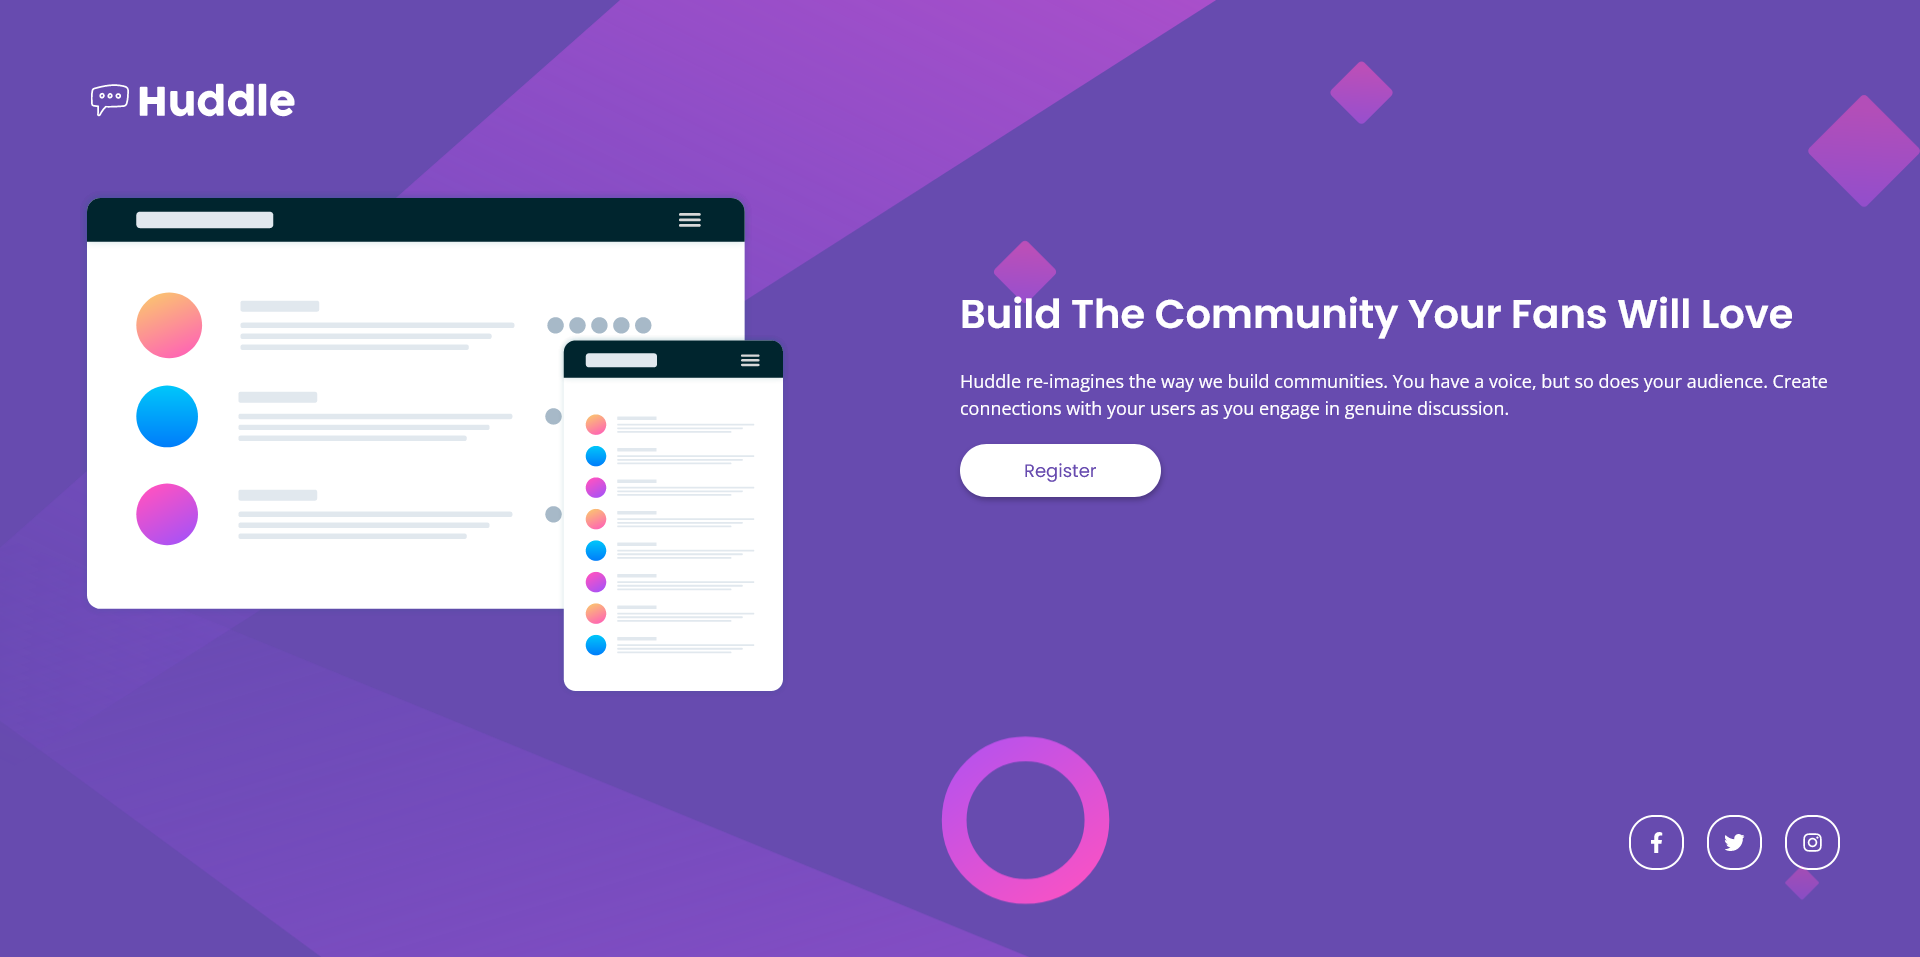
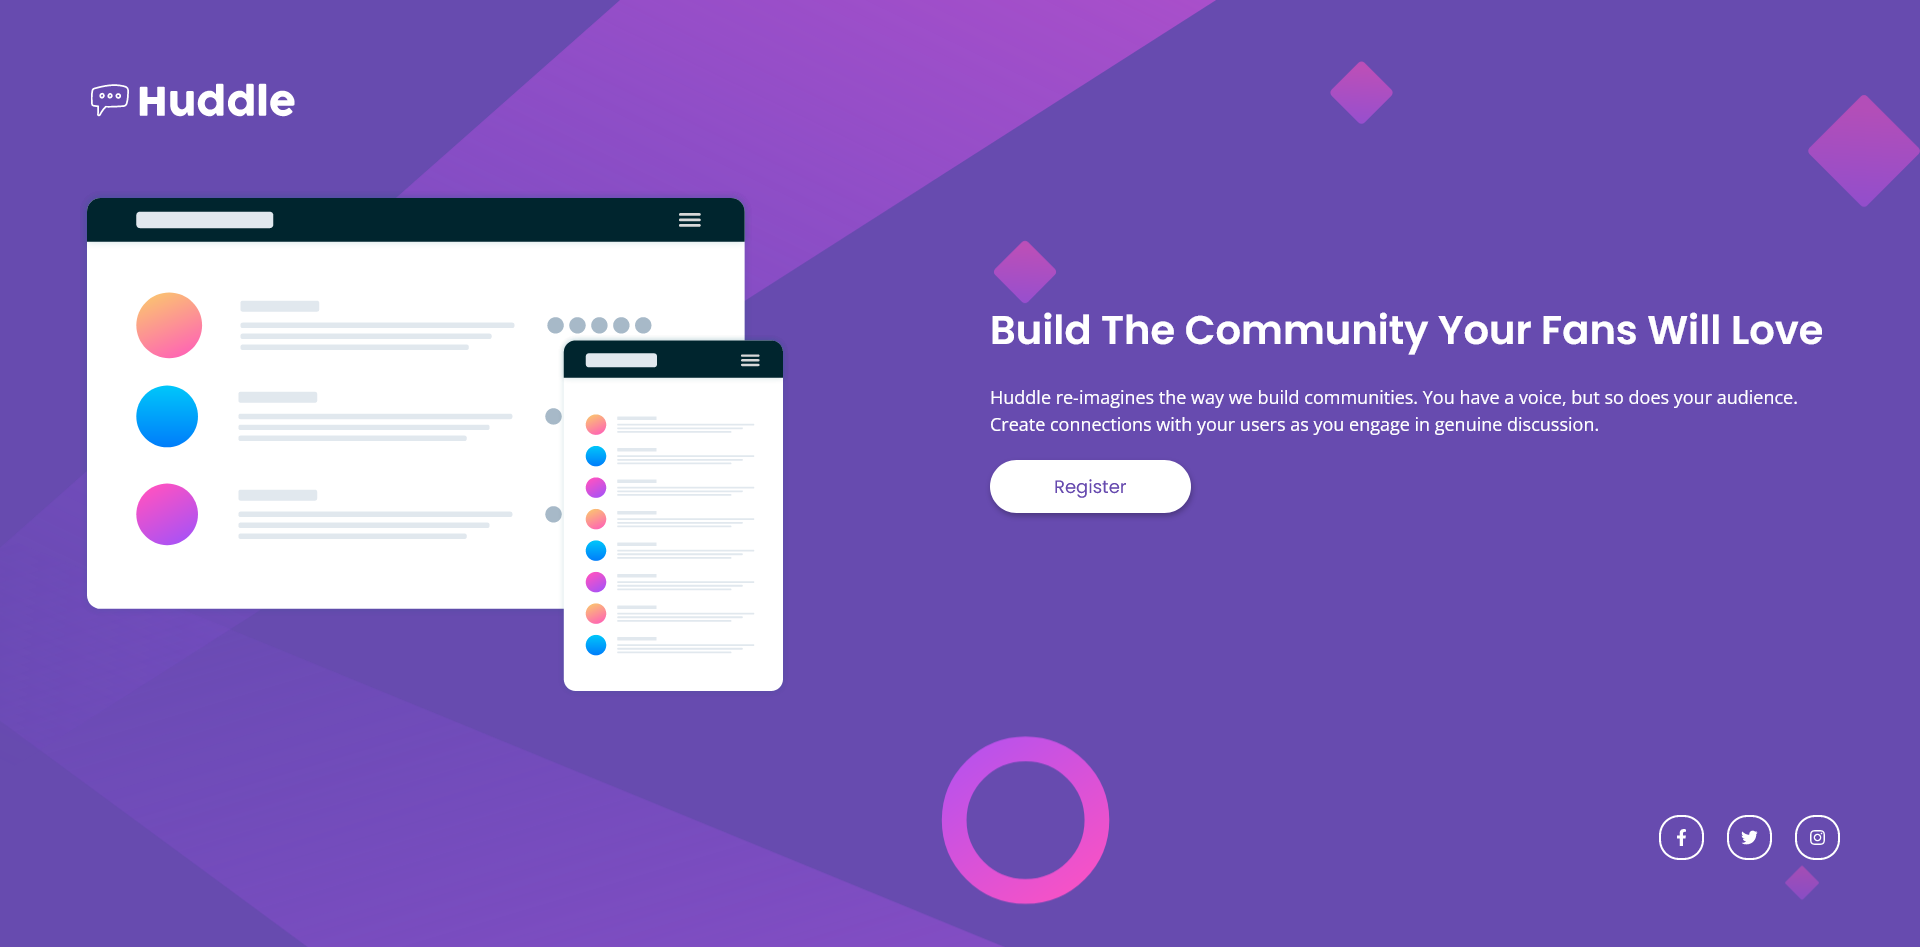
huddle-landing-page: column gap adjustment

diff --git a/frontend-mentor/huddle-landing-page-with-single-introductory-section/css/app.css b/frontend-mentor/huddle-landing-page-with-single-introductory-section/css/app.css
@@ -1,1 +1,1 @@
-@import"https://fonts.googleapis.com/css2?family=Poppins:wght@400;600&display=swap";@import"https://fonts.googleapis.com/css2?family=Open+Sans&display=swap";*{margin:0;padding:0;box-sizing:border-box}body{font-family:"Poppins",sans-serif;background:url("../assets/bg-mobile.svg") no-repeat #674baf;padding:40px;color:#fff}h1,p,a{text-align:center}h1{font-weight:600;font-size:24px;line-height:36px;padding-bottom:16px}p{font-family:"Open Sans",sans-serif;font-size:16px;line-height:24px;padding-bottom:35px}.btn--register{color:#674baf;text-align:center;font-size:12px;line-height:18px;background-color:#fff;box-shadow:1px 3px 5px rgba(0,0,0,.269022);border-radius:20px;padding-top:11px;padding-bottom:11px;display:block;margin-left:52px;margin-right:52px}.btn--register:hover{cursor:pointer;background-color:#e882e8;color:#fff}.logo{padding-bottom:27px;width:120px;height:100px}.illustration{max-width:100%;padding-bottom:60px}footer{padding-top:74px;text-align:center;display:flex;justify-content:center;gap:20px}footer svg{width:33px;height:33px;fill:#fff;border:1px solid #fff;border-radius:45%;padding:7.5px}footer svg:hover{cursor:pointer;fill:#e882e8;border-color:#e882e8}@media screen and (min-width: 768px){body{background:url("../assets/bg-desktop.svg") #674baf;background-position:top;background-repeat:no-repeat;background-size:cover;padding:80px;overflow:hidden}main{padding-bottom:128px}.grid{display:grid;grid-template-columns:repeat(2, 1fr);justify-content:center;align-items:center;min-height:80vh}h1,p{text-align:left}h1{font-weight:600;font-size:40px;line-height:60px;padding-bottom:24px}p{font-size:18px;line-height:27px}.btn--register{font-size:18px;line-height:27px;border-radius:28px;padding:14px 64px;display:unset;margin-left:unset;margin-right:unset}.logo{width:220px;height:200px;position:absolute;top:0;padding-bottom:unset}.illustration{padding-bottom:unset}footer{padding-top:unset;text-align:center;display:flex;justify-content:right;gap:23px}footer svg{border:2px solid #fff;width:55px;height:55px;padding:15px}}/*# sourceMappingURL=app.css.map */
+@import"https://fonts.googleapis.com/css2?family=Poppins:wght@400;600&display=swap";@import"https://fonts.googleapis.com/css2?family=Open+Sans&display=swap";*{margin:0;padding:0;box-sizing:border-box}body{font-family:"Poppins",sans-serif;background:url("../assets/bg-mobile.svg") no-repeat #674baf;padding:40px;color:#fff}h1,p,a{text-align:center}h1{font-weight:600;font-size:24px;line-height:36px;padding-bottom:16px}p{font-family:"Open Sans",sans-serif;font-size:16px;line-height:24px;padding-bottom:35px}.btn--register{color:#674baf;text-align:center;font-size:12px;line-height:18px;background-color:#fff;box-shadow:1px 3px 5px rgba(0,0,0,.269022);border-radius:20px;padding-top:11px;padding-bottom:11px;display:block;margin-left:52px;margin-right:52px}.btn--register:hover{cursor:pointer;background-color:#e882e8;color:#fff}.logo{padding-bottom:27px;width:120px;height:100px}.illustration{max-width:100%;padding-bottom:60px}footer{padding-top:74px;text-align:center;display:flex;justify-content:center;gap:20px}footer svg{width:33px;height:33px;fill:#fff;border:1px solid #fff;border-radius:45%;padding:7.5px}footer svg:hover{cursor:pointer;fill:#e882e8;border-color:#e882e8}@media screen and (min-width: 768px){body{background:url("../assets/bg-desktop.svg") #674baf;background-position:top;background-repeat:no-repeat;background-size:cover;padding:80px;overflow:hidden}main{padding-bottom:96px}.grid{display:grid;grid-template-columns:repeat(2, 1fr);grid-column-gap:60px;justify-content:center;align-items:center;min-height:80vh}h1,p{text-align:left}h1{font-weight:600;font-size:40px;line-height:60px;padding-bottom:24px}p{font-size:18px;line-height:27px}.btn--register{font-size:18px;line-height:27px;border-radius:28px;padding:14px 64px;display:unset;margin-left:unset;margin-right:unset}.logo{width:220px;height:200px;position:absolute;top:0;padding-bottom:unset}.illustration{padding-bottom:unset}footer{padding-top:unset;text-align:center;display:flex;justify-content:right;gap:23px}footer svg{border:2px solid #fff;width:45px;height:45px;padding:12px}}/*# sourceMappingURL=app.css.map */

diff --git a/frontend-mentor/huddle-landing-page-with-single-introductory-section/css/app.scss b/frontend-mentor/huddle-landing-page-with-single-introductory-section/css/app.scss
@@ -108,12 +108,13 @@ footer {
   }
 
   main {
-    padding-bottom: 128px;
+    padding-bottom: 96px;
   }
 
   .grid {
     display: grid;
     grid-template-columns: repeat(2, 1fr);
+    grid-column-gap: 60px;
     justify-content: center;
     align-items: center;
     min-height: 80vh;
@@ -167,9 +168,9 @@ footer {
 
     svg {
       border: 2px solid $white;
-      width: 55px;
-      height: 55px;
-      padding: 15px;
+      width: 45px;
+      height: 45px;
+      padding: 12px;
     }
   }
 }
